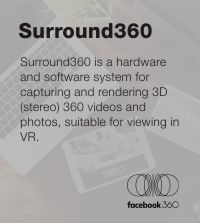
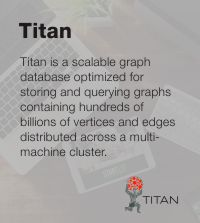
faridiot

Changed region(s): [[0.09, 0.2422, 0.9, 0.6996], [0.09, 0.0807, 0.78, 0.1883], [0.63, 0.7803, 0.9, 0.9686]]

diff --git a/index.html b/index.html
@@ -236,32 +236,32 @@
                                     <tr></tr>
                                     <tr>
                                         <td><div class="c-item" style="margin-left:-30px;">
-                                            <a href="aframe.html" >
+                                            <a href="pouchdb.html" >
                                                 <img src="img/f1.jpg" alt="" style="width:125px;">
                                             </a>
                                         </div></td>
                                         <td><div class="c-item" style="margin-left:-20px;">
-                                            <a href="gearvrf.html" class="ci-avatar">
+                                            <a href="redis.html" class="ci-avatar">
                                                 <img src="img/f2.jpg" alt="" style="width:125px;">
                                             </a>
                                         </div></td>
                                         <td><div class="c-item" style="margin-left:-20px;">
-                                            <a href="surround360.html" class="ci-avatar">
+                                            <a href="titan.html" class="ci-avatar">
                                                 <img src="img/f3.jpg" alt="" style="width:125px;">
                                             </a>
                                         </div></td>
                                         <td><div class="c-item" style="margin-left:-20px;">
-                                            <a href="googlevr-android.html" class="ci-avatar">
+                                            <a href="mongo.html" class="ci-avatar">
                                                 <img src="img/f4.jpg" alt="" style="width:125px;">
                                             </a>
                                         </div></td>
                                         <td><div class="c-item" style="margin-left:-20px;">
-                                            <a href="revive.html" class="ci-avatar">
+                                            <a href="orientdb.html" class="ci-avatar">
                                                 <img src="img/f5.jpg" alt="" style="width:125px;">
                                             </a>
                                         </div></td>
                                         <td><div class="c-item" style="margin-left:-20px;margin-right:-30px;">
-                                            <a href="revive.html" class="ci-avatar">
+                                            <a href="editorchoice.html" class="ci-avatar">
                                                 <img src="img/fr.jpg" alt="" style="width:125px;">
                                             </a>
                                         </div></td>

diff --git a/editorchoice.html b/editorchoice.html
@@ -254,7 +254,7 @@
                             <div class="contacts clearfix row">
                                 <div class="col-md-3 col-sm-4 col-xs-6">
                                     <div class="c-item">
-                                        <a href="aframe.html" class="ci-avatar">
+                                        <a href="pouchdb.html" class="ci-avatar">
                                             <img src="img/f1.jpg" alt="">
                                         </a>
                                         <div class="c-footer" style="margin-top:-0px;">
@@ -264,7 +264,7 @@
 
                                 <div class="col-md-3 col-sm-4 col-xs-6">
                                     <div class="c-item">
-                                        <a href="gearvrf.html" class="ci-avatar">
+                                        <a href="redis.html" class="ci-avatar">
                                             <img src="img/f2.jpg" alt="">
                                         </a>
                                         <div class="c-footer" style="margin-top:-0px;">
@@ -274,7 +274,7 @@
 
                                 <div class="col-md-3 col-sm-4 col-xs-6">
                                     <div class="c-item">
-                                        <a href="surround360.html" class="ci-avatar">
+                                        <a href="titan.html" class="ci-avatar">
                                             <img src="img/f3.jpg" alt="">
                                         </a>
                                         <div class="c-footer" style="margin-top:-0px;">
@@ -284,7 +284,7 @@
 
                                 <div class="col-md-3 col-sm-4 col-xs-6">
                                     <div class="c-item">
-                                        <a href="revive.html" class="ci-avatar">
+                                        <a href="orientdb.html" class="ci-avatar">
                                             <img src="img/f5.jpg" alt="">
                                         </a>
                                         <div class="c-footer" style="margin-top:-0px;">
@@ -294,7 +294,7 @@
 
                                 <div class="col-md-3 col-sm-4 col-xs-6">
                                     <div class="c-item">
-                                        <a href="googlevr-android.html" class="ci-avatar">
+                                        <a href="mongo.html" class="ci-avatar">
                                             <img src="img/f4.jpg" alt="">
                                         </a>
                                         <div class="c-footer" style="margin-top:-0px;">

diff --git a/content-1c.html b/content-1c.html
@@ -1,7 +1,7 @@
                                     <table class="table table-inner table-hover table-vmiddle">
                                         <tbody>
                                         <tr onclick="location.href='arangodb.html';" style="cursor:pointer;">
-                                            <td class="f-500">ArangoDB</td>
+                                            <td class="f-500" style="width:110px">ArangoDB</td>
                                             <td>A distributed multi-purpose NoSQL database with a flexible data model for documents, graphs, and key-values.</td>
                                             <td class="f-500" style="color:#00BCD4">LEARN</td>
                                         </tr>

diff --git a/content-1b.html b/content-1b.html
@@ -1,7 +1,7 @@
                                     <table class="table table-inner table-hover table-vmiddle">
                                         <tbody>
                                         <tr onclick="location.href='couchdb.html';" style="cursor:pointer;">
-                                            <td class="f-500">CouchDB</td>
+                                            <td class="f-500" style="width:110px">CouchDB</td>
                                             <td>Mirror of Apache CouchDB.</td>
                                             <td class="f-500" style="color:#00BCD4">LEARN</td>
                                         </tr>

diff --git a/content-1a.html b/content-1a.html
@@ -1,7 +1,7 @@
                                     <table class="table table-inner table-hover table-vmiddle">
                                         <tbody>
                                         <tr onclick="location.href='titan.html';" style="cursor:pointer;">
-                                            <td class="f-500">Titan</td>
+                                            <td class="f-500" style="width:110px">Titan</td>
                                             <td>Distributed Graph Database.</td>
                                             <td class="f-500" style="color:#00BCD4">LEARN</td>
                                         </tr>
